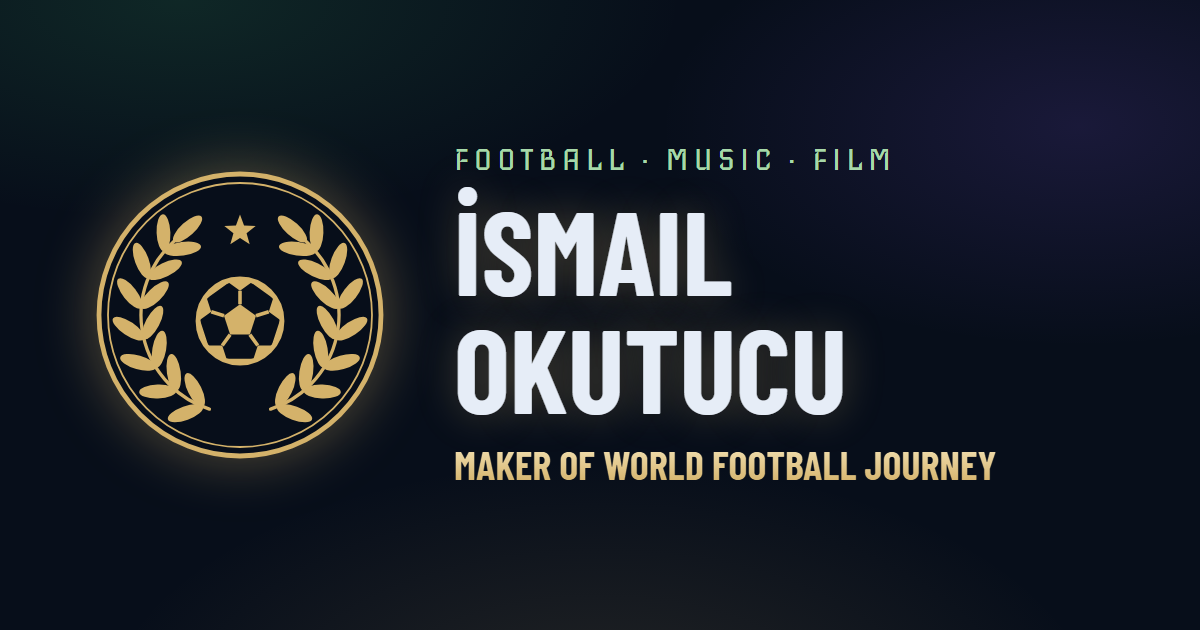
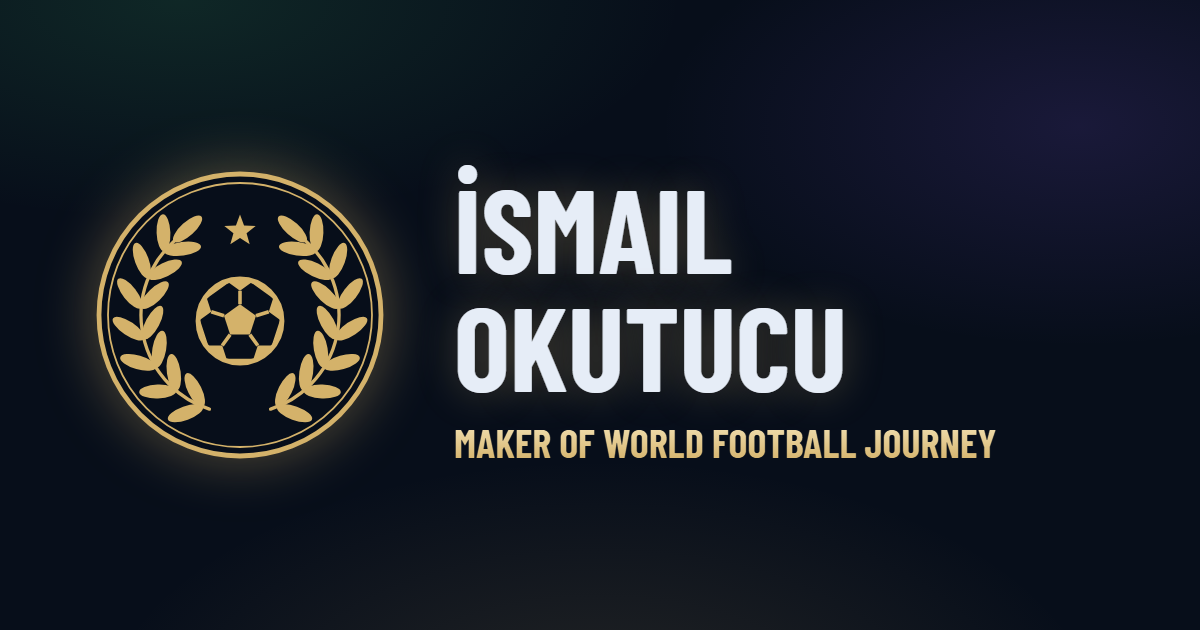
Remove category line from hero and preview image

Changed region(s): [[0.37, 0.2111, 0.8325, 0.7841], [0.555, 0.2413, 0.6475, 0.2714], [0.6783, 0.2413, 0.74, 0.2714]]

diff --git a/index.html b/index.html
@@ -15,7 +15,7 @@
   <meta property="og:image" content="https://ismolatta.github.io/assets/og.png">
   <meta property="og:image:width" content="1200">
   <meta property="og:image:height" content="630">
-  <meta property="og:image:alt" content="İsmail Okutucu — Football · Music · Film">
+  <meta property="og:image:alt" content="İsmail Okutucu — maker of World Football Journey">
   <meta name="twitter:card" content="summary_large_image">
   <meta name="theme-color" content="#070e1a">
   <link rel="preconnect" href="https://fonts.googleapis.com">
@@ -30,7 +30,6 @@
     <!-- ───── Intro ───── -->
     <header class="hero">
       <div class="monogram" aria-hidden="true">İO</div>
-      <p class="kicker">Football · Music · Film</p>
       <h1 class="name">İsmail Okutucu</h1>
       <nav class="jump" aria-label="Sections">
         <a href="#football">Football</a>

diff --git a/style.css b/style.css
@@ -72,15 +72,8 @@ a { color: var(--green); }
   box-shadow: 0 0 0 2px var(--gold), 0 0 0 7px var(--bg), 0 0 0 8px rgba(212, 178, 106, 0.5),
     0 0 40px rgba(212, 178, 106, 0.25);
 }
-.kicker {
-  margin: 0;
-  font: 1rem/1 var(--brand);
-  letter-spacing: 0.18em;
-  text-transform: uppercase;
-  color: #a7d8a9;
-}
 .name {
-  margin: 0.4rem 0 0.8rem;
+  margin: 0 0 0.8rem;
   font: 700 clamp(2.6rem, 8vw, 4.4rem)/1 var(--sign);
   text-transform: uppercase;
   letter-spacing: 0.02em;
